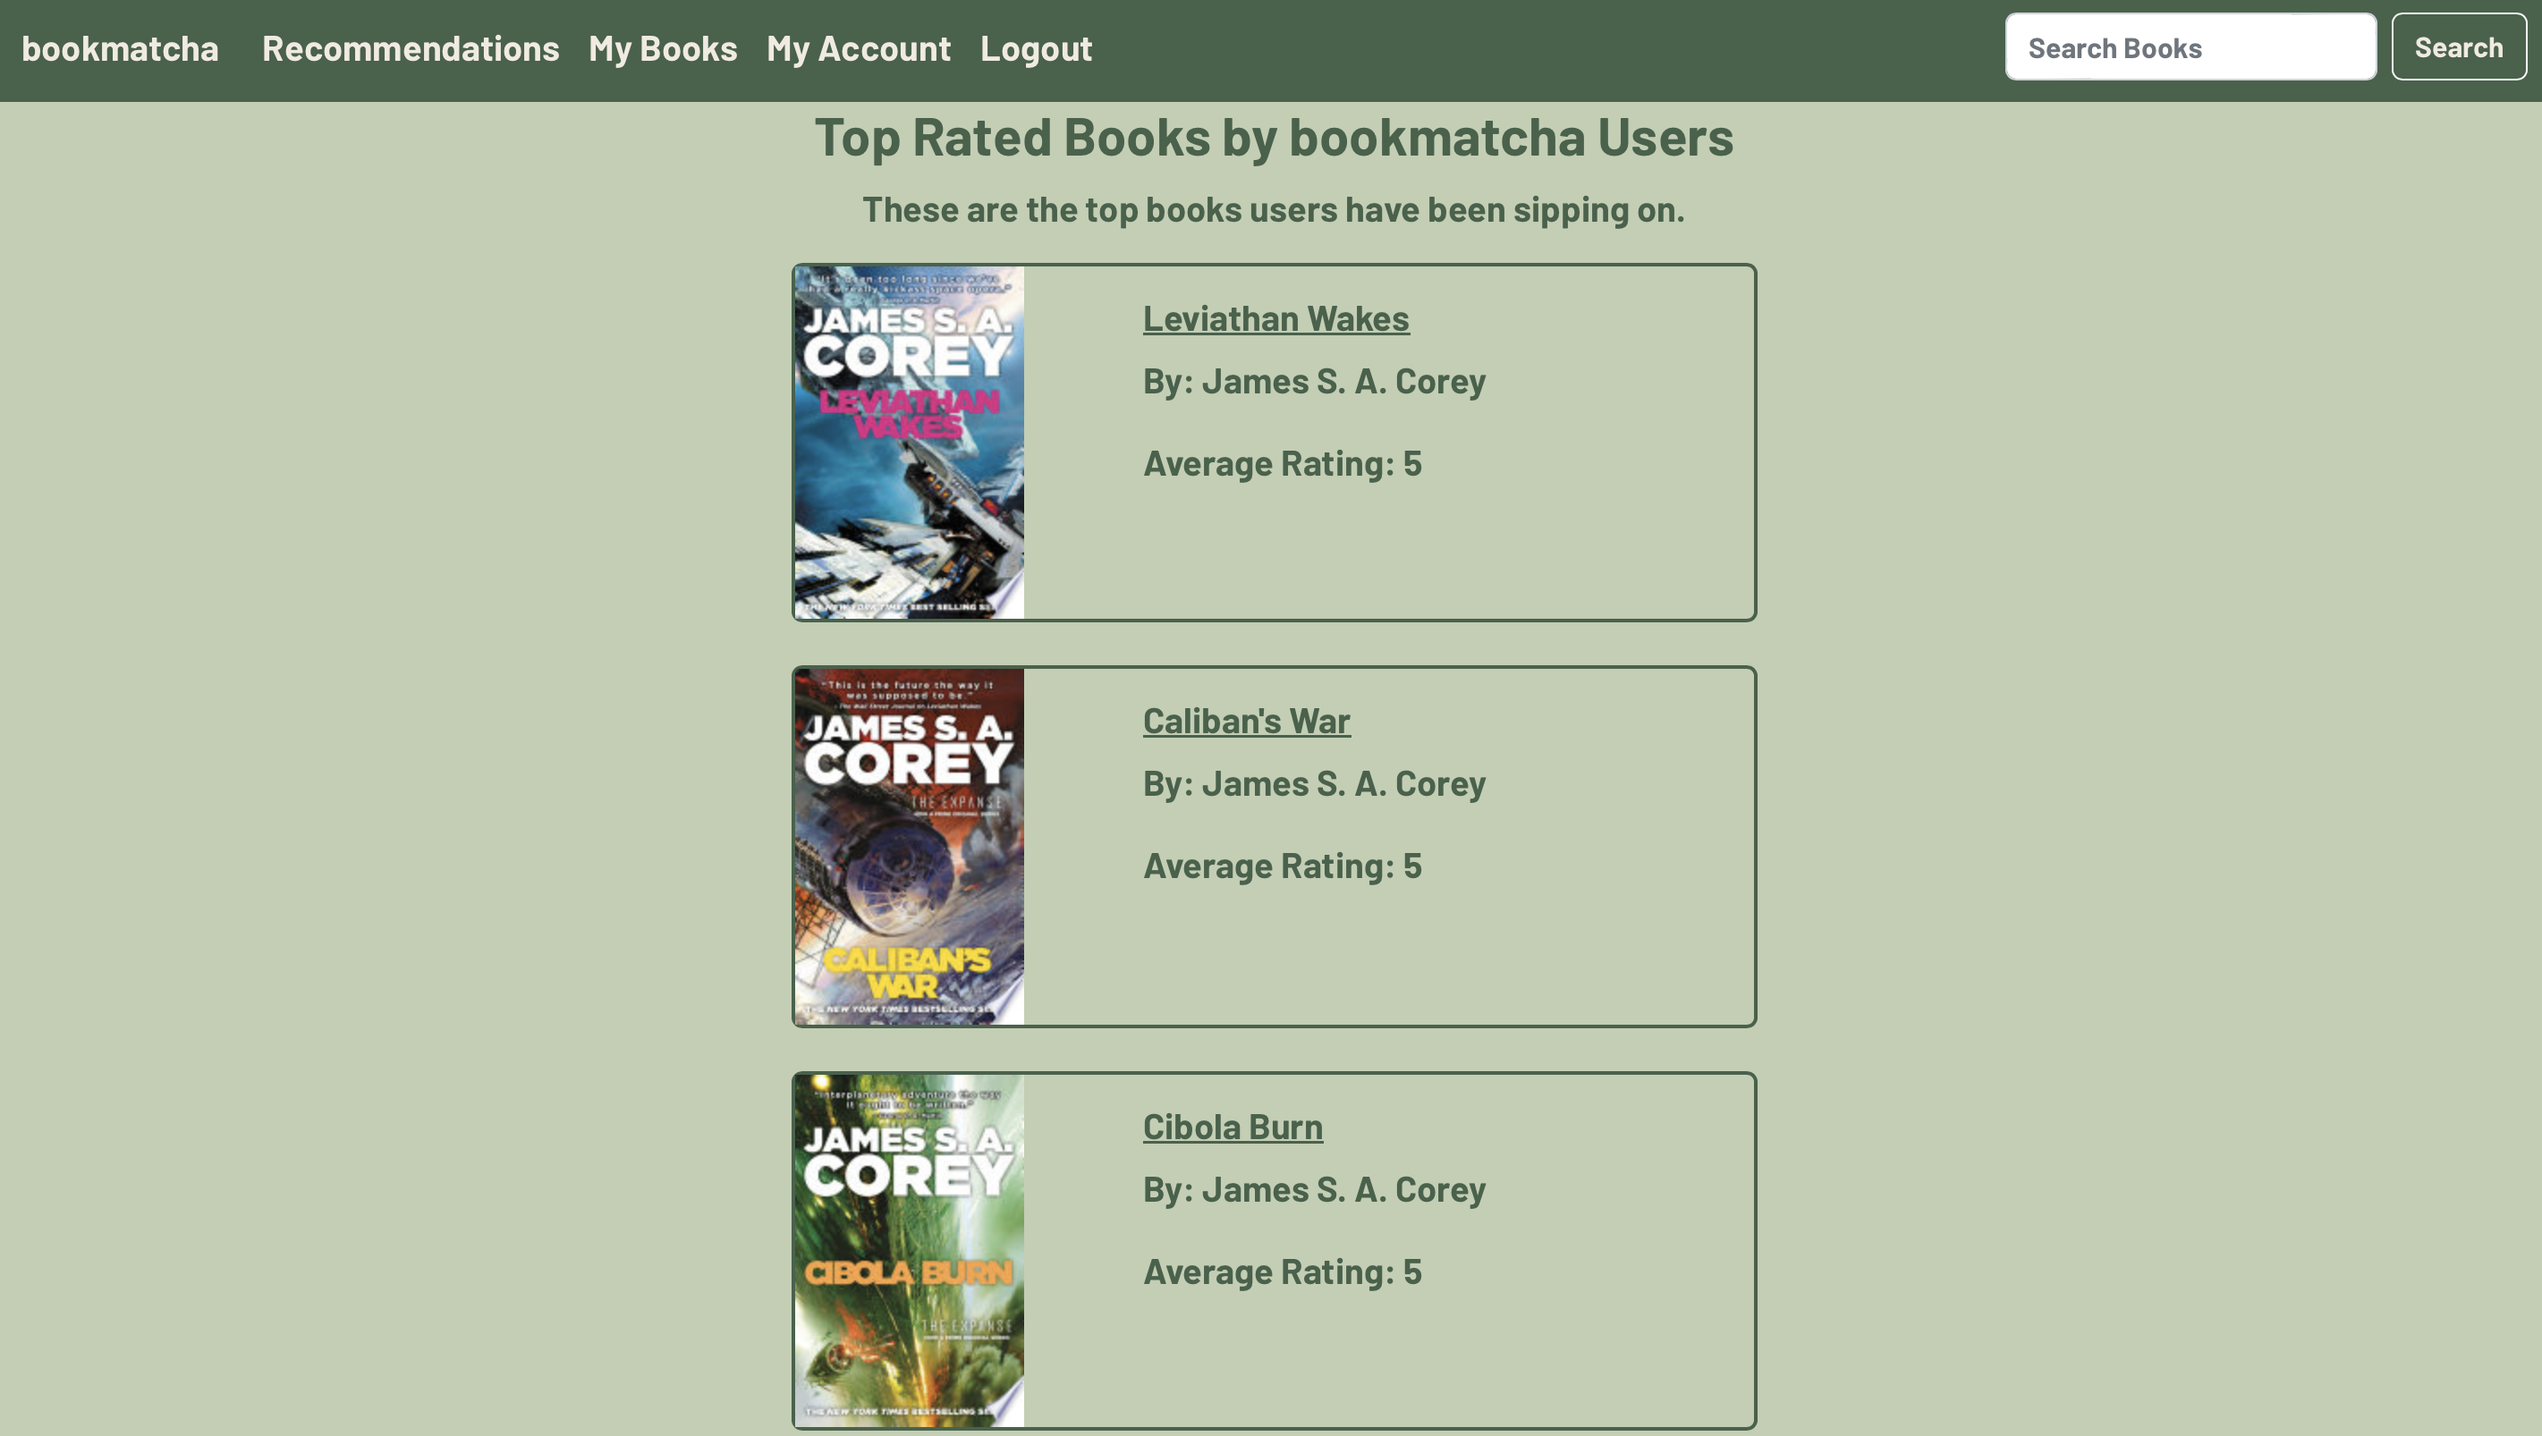
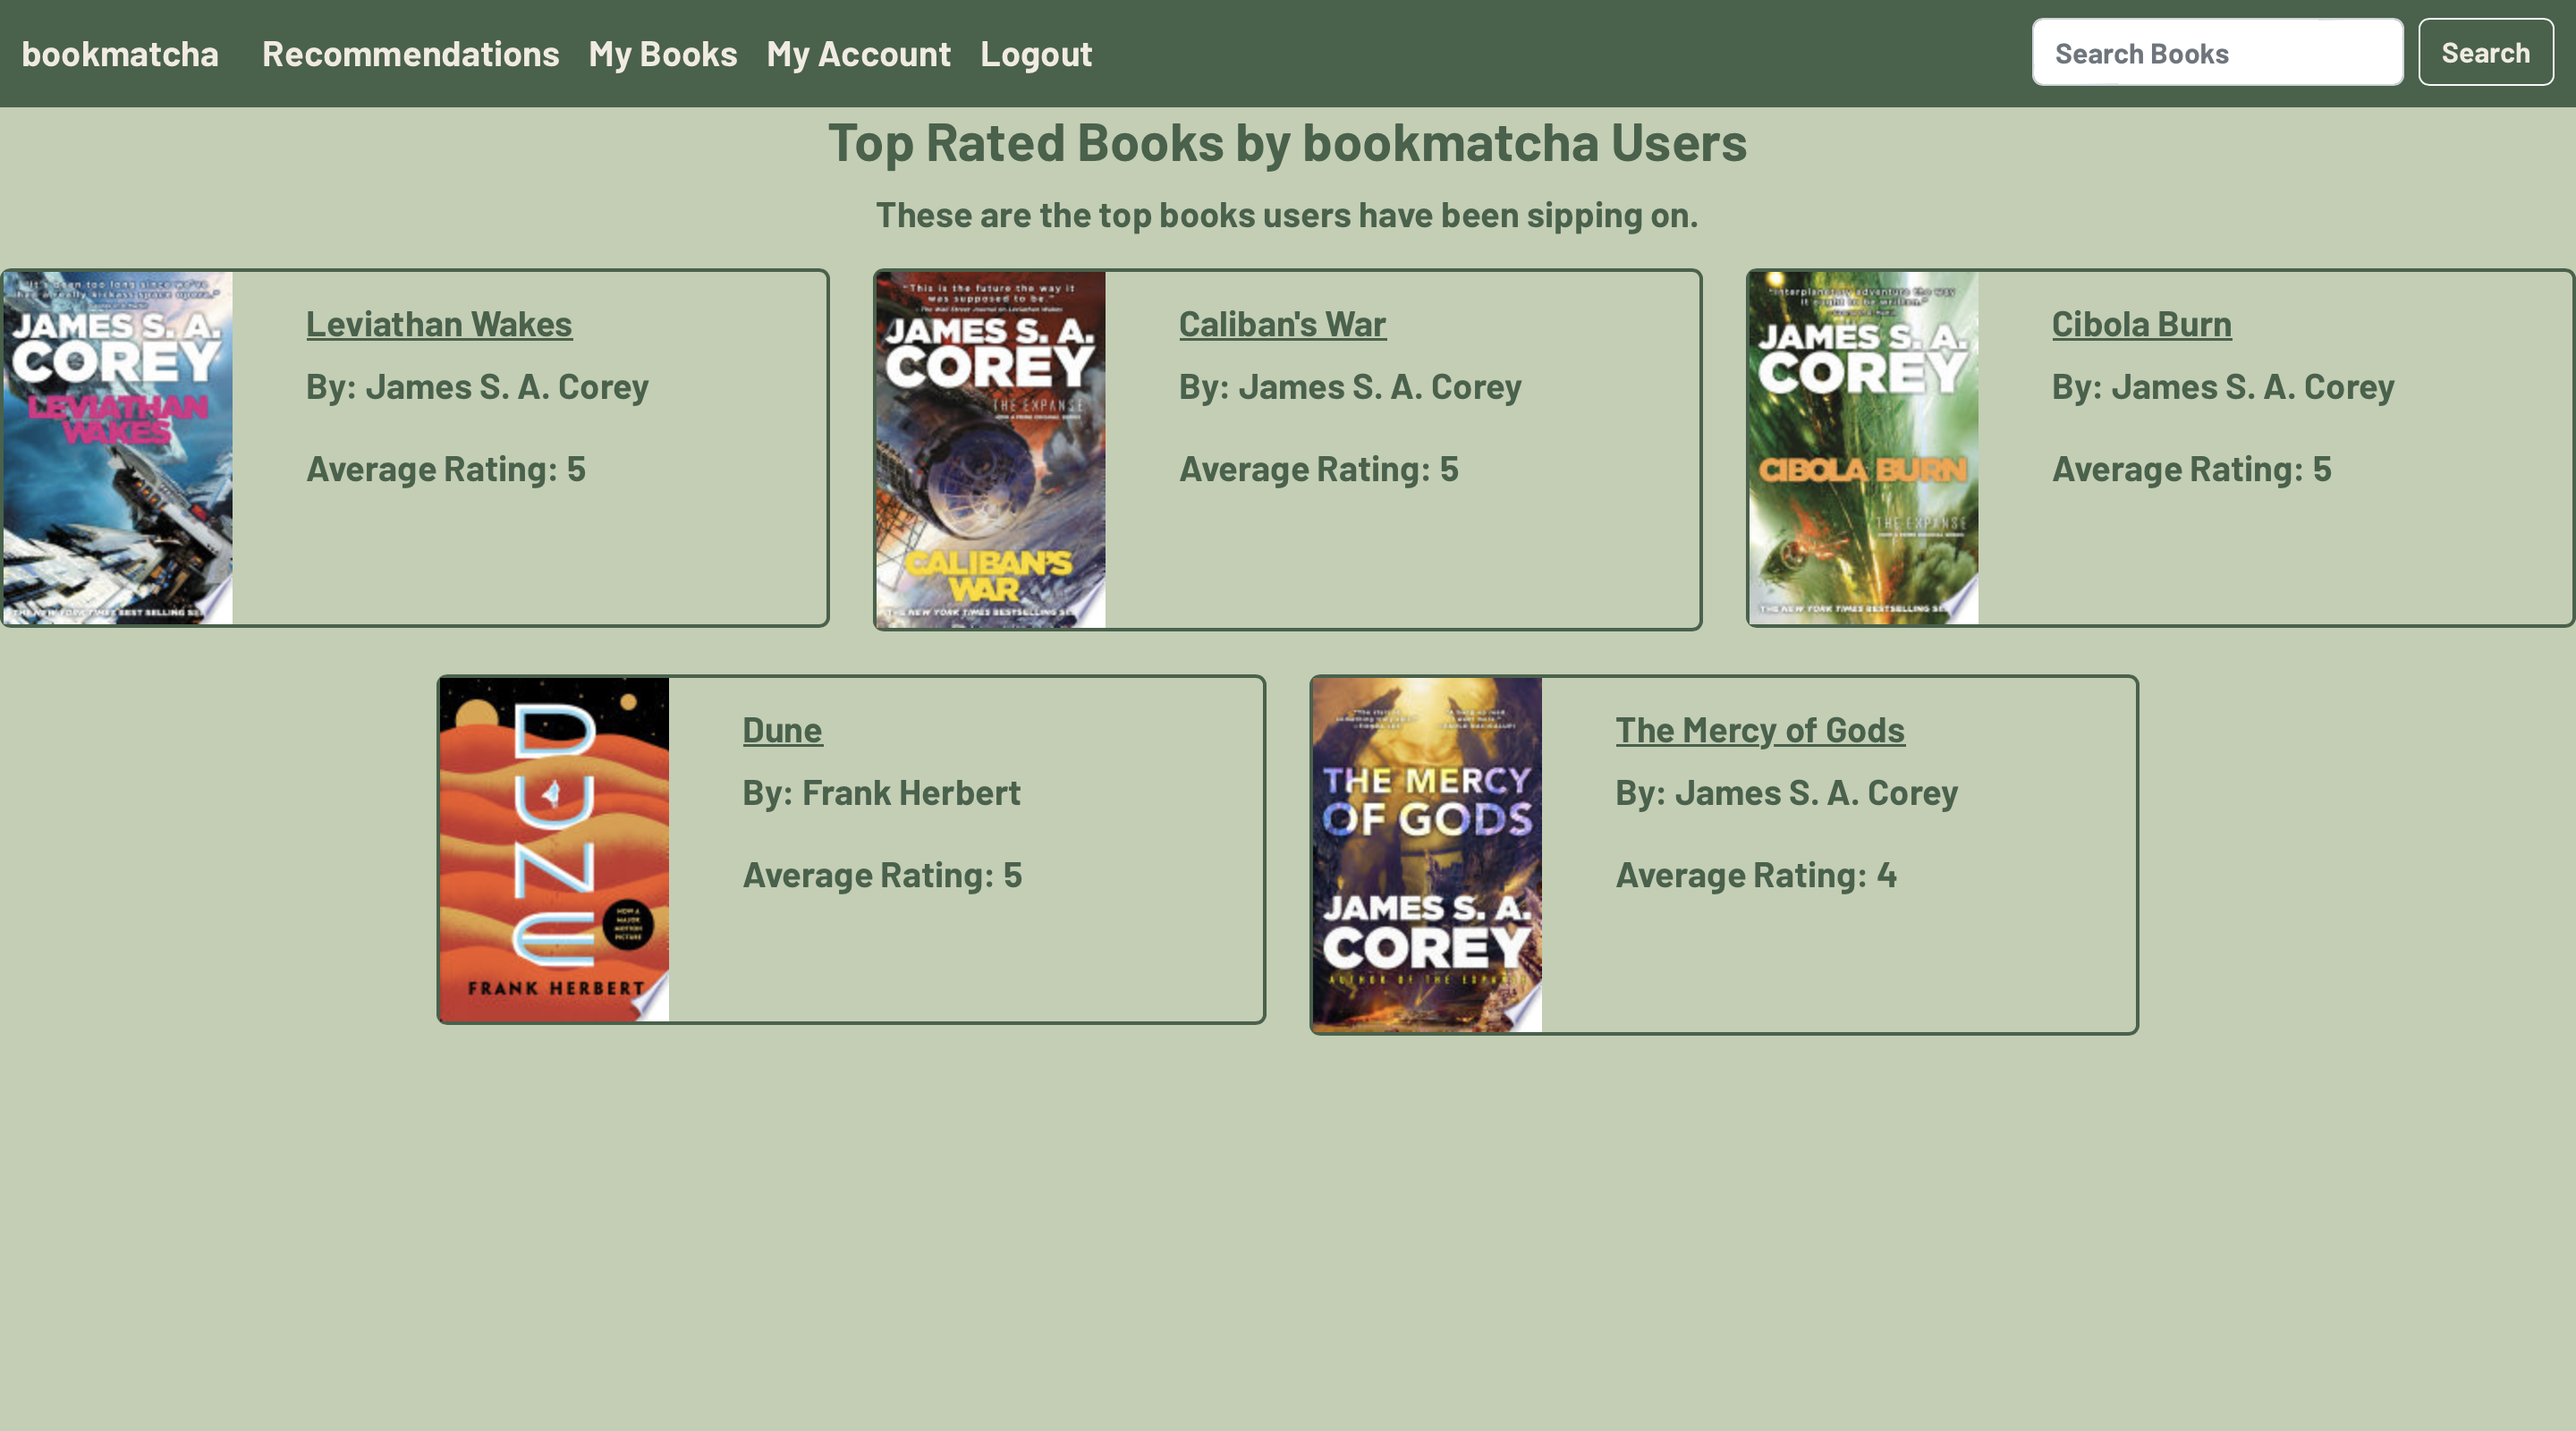
Update top books layout on homepage

diff --git a/src/Pages/HomePage.js b/src/Pages/HomePage.js
@@ -29,12 +29,12 @@ return (
         <div>
             <h1 className="title">Top Rated Books by bookmatcha Users</h1>
             <p className="subtitle">These are the top books users have been sipping on.</p>
+            <MDBRow className="justify-content-center mb-4">
             {topBooks.map(book => (
-                <MDBRow key={book.BookID} className="justify-content-center mb-4">
-                    <MDBCol md='12'>
-                        <MDBCard className="card-custom" style={{ maxWidth: '540px' }}>
+                <MDBCol key={book.BookID} md = '4' lg = '4' className="justify-content-center mb-4">
+                    <MDBCard className="card-custom" style={{ maxWidth: '540px' }}>
                             <MDBRow className='g-0'>
-                                <MDBCol md='8' lg='6' xl='4' >
+                                <MDBCol md='12' lg='6' xl='4' >
                                     <MDBCardImage
                                         src={book.ImageLink}
                                         alt={book.Name}
@@ -58,9 +58,9 @@ return (
                                 </MDBCol>
                             </MDBRow>
                         </MDBCard>
-                    </MDBCol>
-                </MDBRow>
+                </MDBCol>
             ))}
+            </MDBRow>
         </div>
     );
 };
